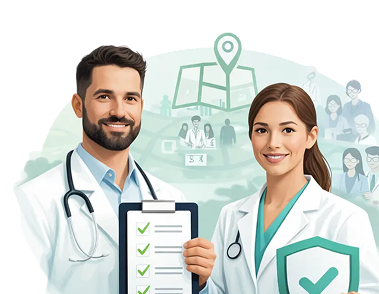
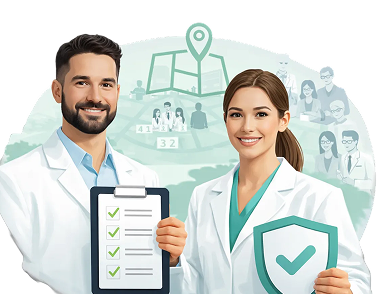
fixes

diff --git a/src/pages/About/index.jsx b/src/pages/About/index.jsx
@@ -7,6 +7,7 @@ import SectionHeading from "../../components/SectionHeading";
 import { ScrollReveal } from "../../components/ScrollAnimation";
 import data from "./data.json";
 import bannerImg from "../../assets/images/dummy.png";
+import aboutBannerImg from "../../assets/images/aboutBanner.png";
 import icon1 from "../../assets/Icons/a1.svg";
 import icon2 from "../../assets/Icons/a2.svg";
 import valueIcon1 from "../../assets/Icons/i1.svg";
@@ -19,6 +20,9 @@ import aboutIcon from "../../assets/Icons/abt1.svg";
 import aboutIcon2 from "../../assets/Icons/abt2.svg";
 import aboutIcon3 from "../../assets/Icons/abt3.svg";
 import aboutImg from "../../assets/images/abt1.png";
+import service2Img from "../../assets/images/service4.png";
+import service5Img from "../../assets/images/serivce5.png";
+import teamImg from "../../assets/images/team.png";
 import ProfessionalServices from "../../components/ProfessionalServices";
 import Journey from "../../components/Journey";
 import j1 from "../../assets/Icons/j1.svg";
@@ -33,14 +37,14 @@ const whyImages = { "abt1.png": aboutImg };
 
 const bannerData = {
   ...data.BANNER_DATA,
-  image: bannerImg,
+  image: aboutBannerImg,
   stats: data.BANNER_DATA.stats?.map((stat, i) => ({
     ...stat,
     icon: [icon1, icon2][i] ?? stat.icon,
   })),
 };
 
-const serviceImages = { "dummy.png": bannerImg };
+const serviceImages = { "dummy.png": bannerImg, "service2.png": service2Img, "service5.png": service5Img };
 const professionalServicesData = (data.PROFESSIONAL_SERVICES ?? data.WHY_HEARCOG?.PROFESSIONAL_SERVICES ?? []).map((s) => ({
   ...s,
   image: serviceImages[s.image],
@@ -57,7 +61,7 @@ const journeyData = data.JOURNEY
     }
   : null;
 
-const expertImages = { "avatar1.png": bannerImg, "avatar2.png": bannerImg, "avatar3.png": bannerImg };
+const expertImages = { "avatar1.png": teamImg, "avatar2.png": teamImg, "avatar3.png": teamImg };
 const expertsData = (data.EXPERTS ?? []).map((expert) => ({
   ...expert,
   image: expertImages[expert.image] ?? bannerImg,

diff --git a/src/pages/JoinProvider/index.jsx b/src/pages/JoinProvider/index.jsx
@@ -8,7 +8,7 @@ import SectionHeading from "../../components/SectionHeading";
 import { ScrollReveal } from "../../components/ScrollAnimation";
 import ServiceProcessSection from "../../components/ServiceProcessSection";
 import data from "./data.json";
-import bannerImg from "../../assets/images/dummy.png";
+import aboutBannerImg from "../../assets/images/aboutBanner.png";
 import icon1 from "../../assets/Icons/a1.svg";
 import icon2 from "../../assets/Icons/a2.svg";
 import valueIcon1 from "../../assets/Icons/i1.svg";
@@ -27,7 +27,7 @@ const whyJoinSection = {
 
 const bannerData = {
   ...data.BANNER_DATA,
-  image: bannerImg,
+  image: aboutBannerImg,
   stats: data.BANNER_DATA.stats?.map((stat, i) => ({
     ...stat,
     icon: [icon1, icon2][i] ?? stat.icon,

diff --git a/src/styles/main.scss b/src/styles/main.scss
@@ -192,6 +192,9 @@ a {
                         font-weight: 300;
                   }
             }
+            img{
+                  border-radius: 16px 16px 0 0;
+            }
       }
 
       &.contactUsCard{
